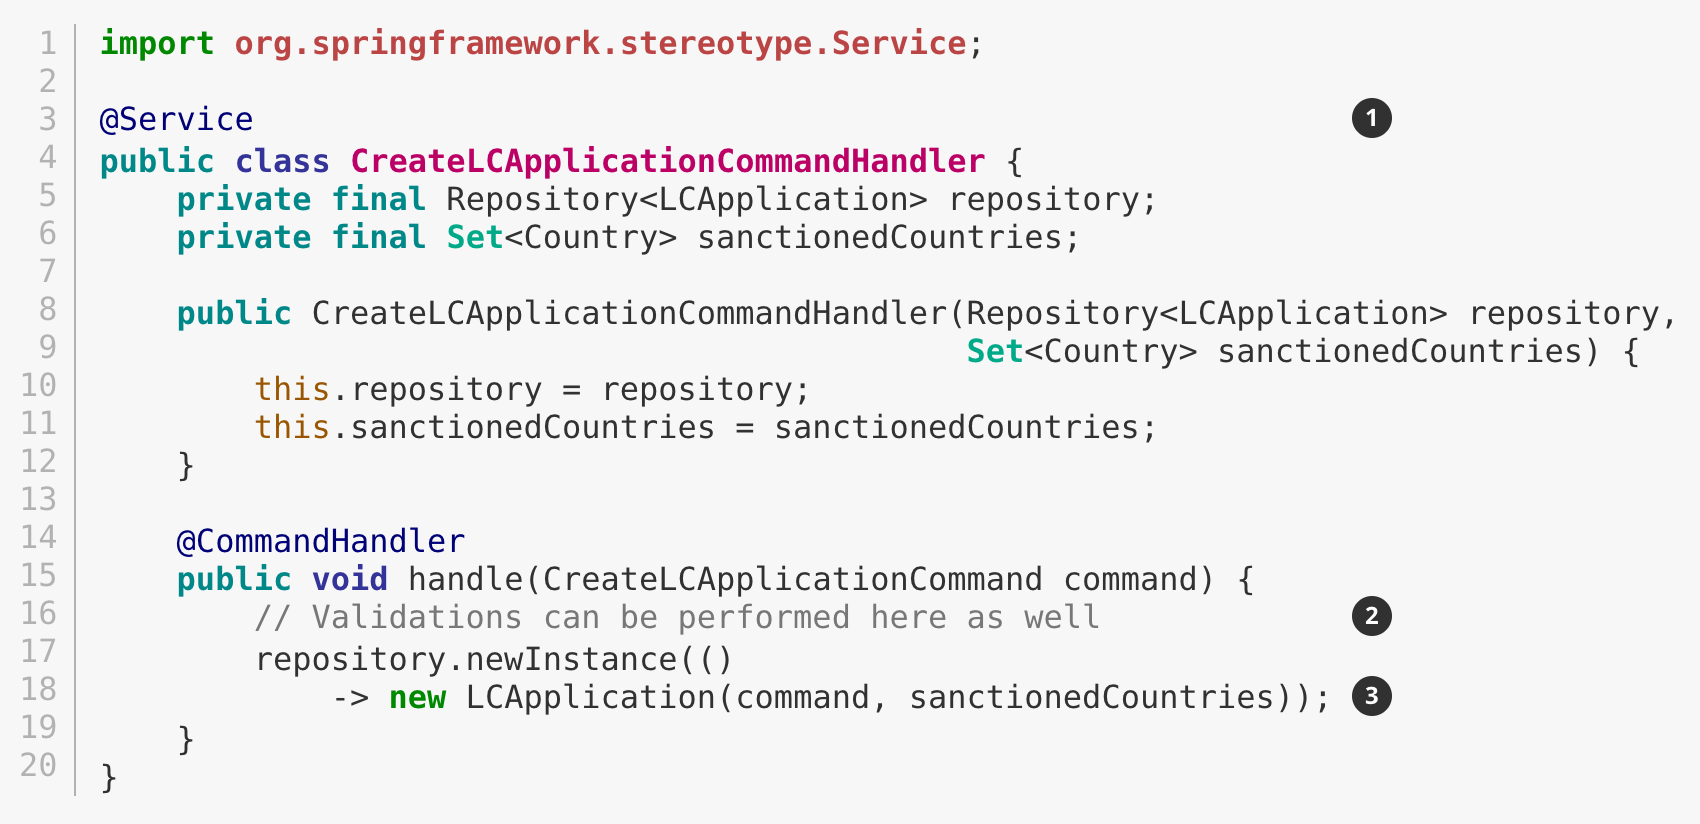
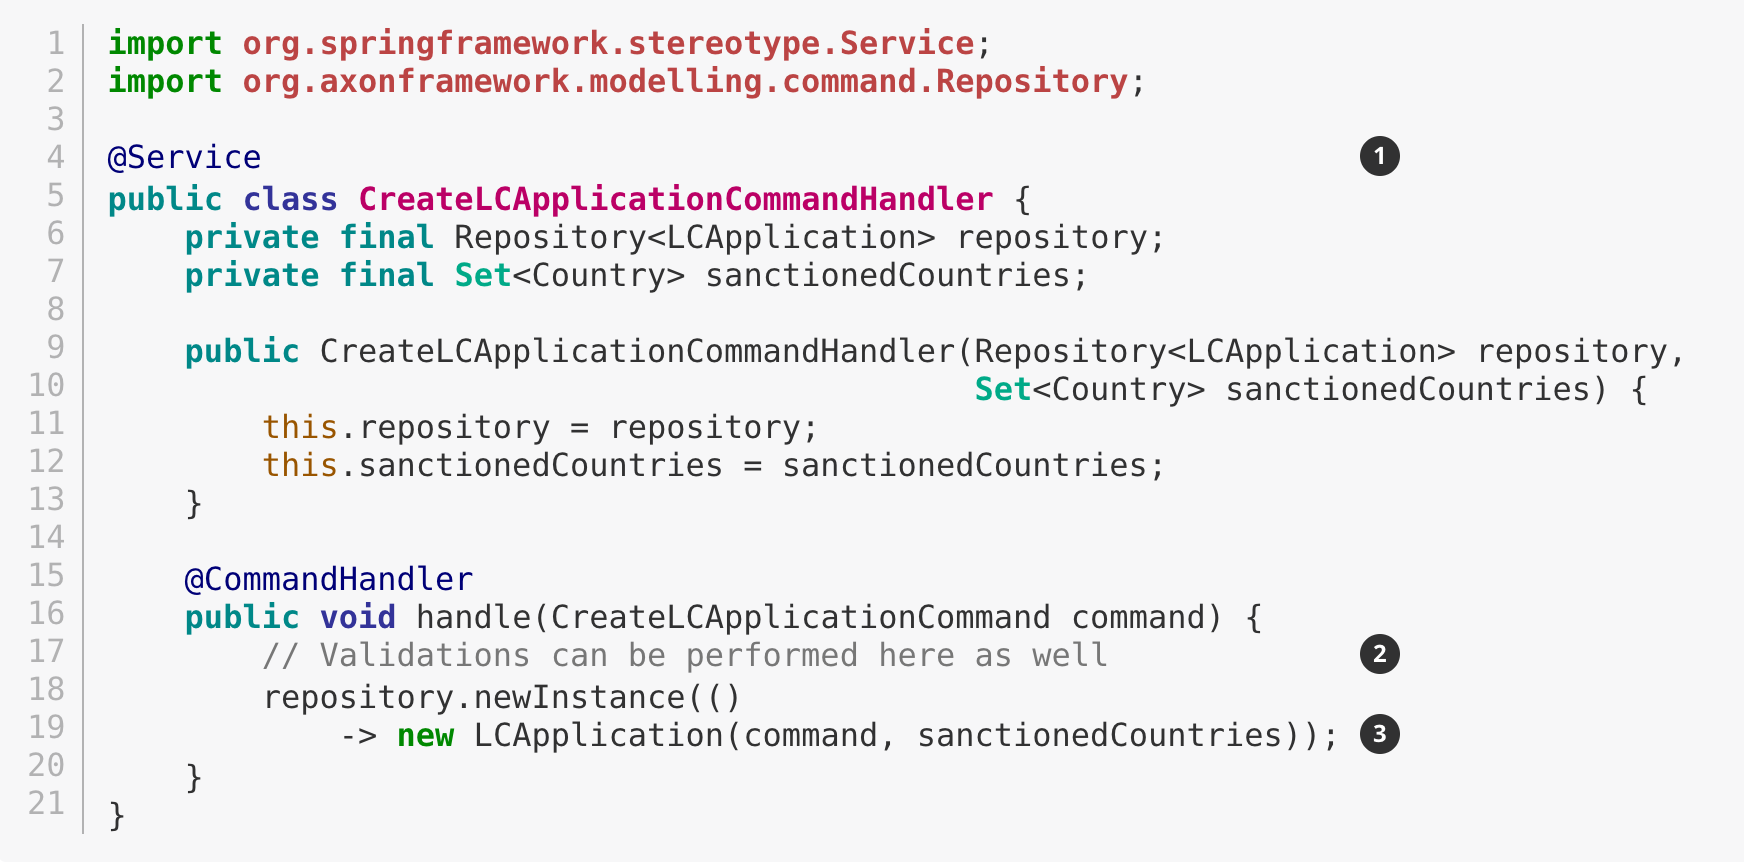
Update from https://github.com/ddd-book-java/ddd-book-java/commit/d29ecd4024bf64122056c32dbb69d119a659c271

diff --git a/index.html b/index.html
@@ -448,7 +448,7 @@ body.book #toc,body.book #preamble,body.book h1.sect0,body.book .sect1>h2{page-b
 <span id="author2" class="author">Karthik Krishnan</span><br>
 <span id="email2" class="email"><a href="mailto:me@karthiks.in">me@karthiks.in</a></span><br>
 <span id="revnumber">version 1.0.0-SNAPSHOT,</span>
-<span id="revdate">Jul 15 2022 02:18 PM UTC</span>
+<span id="revdate">Jul 15 2022 08:53 PM UTC</span>
 </div>
 <div id="toc" class="toc2">
 <div id="toctitle">Table of Contents</div>
@@ -2811,7 +2811,7 @@ It is pertinent to note that these tools were conceived independently, but when 
 <p><strong><em>Key Metrics</em></strong> instead of <em>Key Resources</em>: because it is very important to know that we are progressing in the right direction. It is advisable to focus on a small number of <strong>key metrics</strong> to enable pivoting quickly if needed. <em>Key Resources</em> is removed because developing new products has become relatively easy (with the advent of the cloud and the availability of mature frameworks). Furthermore, they may appear in the <em>Unfair Advantage</em> box, which we discuss next.</p>
 </li>
 <li>
-<p><strong><em>Unfair Advantage</em></strong> instead of <em>customer r   elationships</em>: because it clearly establishes our differentiators that are hard to replicate. This is closely aligned to the idea of the <a href="#_types_of_subdomains">core subdomain</a> we discussed in chapter 1 and gives us a clear picture of what we need to focus our energies on at the outset.</p>
+<p><strong><em>Unfair Advantage</em></strong> instead of <em>customer relationships</em>: because it clearly establishes our differentiators that are hard to replicate. This is closely aligned to the idea of the <a href="#_types_of_subdomains">core subdomain</a> we discussed in chapter 1 and gives us a clear picture of what we need to focus our energies on at the outset.</p>
 </li>
 </ol>
 </div>
@@ -5197,8 +5197,10 @@ Wheat bread</p></td>
 18
 19
 20
+21
 </pre></td>
   <td class="code"><pre><span style="color:#080;font-weight:bold">import</span> <span style="color:#B44;font-weight:bold">org.springframework.stereotype.Service</span>;
+<span style="color:#080;font-weight:bold">import</span> <span style="color:#B44;font-weight:bold">org.axonframework.modelling.command.Repository</span>;
 
 <span style="color:#007">@Service</span>                                                         <i class="conum" data-value="1"></i><b>(1)</b>
 <span style="color:#088;font-weight:bold">public</span> <span style="color:#339;font-weight:bold">class</span> <span style="color:#B06;font-weight:bold">CreateLCApplicationCommandHandler</span> {
@@ -5230,6 +5232,10 @@ Wheat bread</p></td>
 <tr>
 <td><i class="conum" data-value="2"></i><b>2</b></td>
 <td>Do note that the validation for the beneficiary&#8217;s country being sanctioned could have been performed on line 18 as well. Some would argue that this would be ideal because we could avoid a potentially unnecessary invocation of the Axon <code>Repository</code> method if we did that. However, we prefer encapsulating business validations within the confines of the aggregate as much as possible&#8201;&#8212;&#8201;so that we don&#8217;t suffer from the problem of creating an <a href="https://www.martinfowler.com/bliki/AnemicDomainModel.html">anemic domain model</a><sup class="footnote">[<a id="_footnoteref_22" class="footnote" href="#_footnotedef_22" title="View footnote.">22</a>]</sup>.</td>
+</tr>
+<tr>
+<td><i class="conum" data-value="3"></i><b>3</b></td>
+<td>We use an aggregate repository to act as a factory to create a new instance of the <code>LCApplication</code> domain object.</td>
 </tr>
 </table>
 </div>
@@ -12113,7 +12119,7 @@ For more information on logging best practices, please refer to this logging che
 <div id="footer">
 <div id="footer-text">
 Version 1.0.0-SNAPSHOT<br>
-Last updated 2022-07-15 14:18:10 UTC
+Last updated 2022-07-15 20:53:31 UTC
 </div>
 </div>
 </body>

diff --git a/05-implementing-domain-logic.html b/05-implementing-domain-logic.html
@@ -2126,8 +2126,10 @@ Wheat bread</p></td>
 18
 19
 20
+21
 </pre></td>
   <td class="code"><pre><span style="color:#080;font-weight:bold">import</span> <span style="color:#B44;font-weight:bold">org.springframework.stereotype.Service</span>;
+<span style="color:#080;font-weight:bold">import</span> <span style="color:#B44;font-weight:bold">org.axonframework.modelling.command.Repository</span>;
 
 <span style="color:#007">@Service</span>                                                         <i class="conum" data-value="1"></i><b>(1)</b>
 <span style="color:#088;font-weight:bold">public</span> <span style="color:#339;font-weight:bold">class</span> <span style="color:#B06;font-weight:bold">CreateLCApplicationCommandHandler</span> {
@@ -2159,6 +2161,10 @@ Wheat bread</p></td>
 <tr>
 <td><i class="conum" data-value="2"></i><b>2</b></td>
 <td>Do note that the validation for the beneficiary&#8217;s country being sanctioned could have been performed on line 18 as well. Some would argue that this would be ideal because we could avoid a potentially unnecessary invocation of the Axon <code>Repository</code> method if we did that. However, we prefer encapsulating business validations within the confines of the aggregate as much as possible&#8201;&#8212;&#8201;so that we don&#8217;t suffer from the problem of creating an <a href="https://www.martinfowler.com/bliki/AnemicDomainModel.html">anemic domain model</a><sup class="footnote">[<a id="_footnoteref_7" class="footnote" href="#_footnotedef_7" title="View footnote.">7</a>]</sup>.</td>
+</tr>
+<tr>
+<td><i class="conum" data-value="3"></i><b>3</b></td>
+<td>We use an aggregate repository to act as a factory to create a new instance of the <code>LCApplication</code> domain object.</td>
 </tr>
 </table>
 </div>
@@ -2291,7 +2297,7 @@ Wheat bread</p></td>
 <div id="footer">
 <div id="footer-text">
 Version 1.0.0-SNAPSHOT<br>
-Last updated 2022-07-15 14:18:09 UTC
+Last updated 2022-07-15 20:53:31 UTC
 </div>
 </div>
 </body>

diff --git a/03-starting-strategic-design.html b/03-starting-strategic-design.html
@@ -609,7 +609,7 @@ It is pertinent to note that these tools were conceived independently, but when 
 <p><strong><em>Key Metrics</em></strong> instead of <em>Key Resources</em>: because it is very important to know that we are progressing in the right direction. It is advisable to focus on a small number of <strong>key metrics</strong> to enable pivoting quickly if needed. <em>Key Resources</em> is removed because developing new products has become relatively easy (with the advent of the cloud and the availability of mature frameworks). Furthermore, they may appear in the <em>Unfair Advantage</em> box, which we discuss next.</p>
 </li>
 <li>
-<p><strong><em>Unfair Advantage</em></strong> instead of <em>customer r   elationships</em>: because it clearly establishes our differentiators that are hard to replicate. This is closely aligned to the idea of the <a href="#_types_of_subdomains">core subdomain</a> we discussed in chapter 1 and gives us a clear picture of what we need to focus our energies on at the outset.</p>
+<p><strong><em>Unfair Advantage</em></strong> instead of <em>customer relationships</em>: because it clearly establishes our differentiators that are hard to replicate. This is closely aligned to the idea of the <a href="#_types_of_subdomains">core subdomain</a> we discussed in chapter 1 and gives us a clear picture of what we need to focus our energies on at the outset.</p>
 </li>
 </ol>
 </div>
@@ -783,7 +783,7 @@ On this canvas, we have chosen to elaborate the needs of only one class of users
 <div id="footer">
 <div id="footer-text">
 Version 1.0.0-SNAPSHOT<br>
-Last updated 2022-07-15 14:18:09 UTC
+Last updated 2022-07-15 20:53:31 UTC
 </div>
 </div>
 </body>

diff --git a/02-does-ddd-fit.html b/02-does-ddd-fit.html
@@ -1192,7 +1192,7 @@ A BIG BALL OF MUD is haphazardly structured, sprawling, sloppy, duct-tape and ba
 <div id="footer">
 <div id="footer-text">
 Version 1.0.0-SNAPSHOT<br>
-Last updated 2022-07-15 14:18:09 UTC
+Last updated 2022-07-15 20:53:31 UTC
 </div>
 </div>
 </body>

diff --git a/04-domain-analysis-modeling.html b/04-domain-analysis-modeling.html
@@ -1055,7 +1055,7 @@ Eventstorming, on the other hand, uses a chronological ordering of domain events
 <div id="footer">
 <div id="footer-text">
 Version 1.0.0-SNAPSHOT<br>
-Last updated 2022-07-15 14:18:09 UTC
+Last updated 2022-07-15 20:53:31 UTC
 </div>
 </div>
 </body>

diff --git a/06-implementing-a-task-based-ui.html b/06-implementing-a-task-based-ui.html
@@ -2416,7 +2416,7 @@ This may feel contrary to the notion of centralizing business validations on the
 <div id="footer">
 <div id="footer-text">
 Version 1.0.0-SNAPSHOT<br>
-Last updated 2022-07-15 14:18:09 UTC
+Last updated 2022-07-15 20:53:31 UTC
 </div>
 </div>
 </body>

diff --git a/07-implementing-queries.html b/07-implementing-queries.html
@@ -1256,7 +1256,7 @@ Do note that the <strong>distinct datastores</strong> approach for replays is us
 <div id="footer">
 <div id="footer-text">
 Version 1.0.0-SNAPSHOT<br>
-Last updated 2022-07-15 14:18:09 UTC
+Last updated 2022-07-15 20:53:31 UTC
 </div>
 </div>
 </body>

diff --git a/08-long-running-workflows.html b/08-long-running-workflows.html
@@ -1684,7 +1684,7 @@ We will skip covering code examples for the choreography implementation because 
 <div id="footer">
 <div id="footer-text">
 Version 1.0.0-SNAPSHOT<br>
-Last updated 2022-07-15 14:18:09 UTC
+Last updated 2022-07-15 20:53:31 UTC
 </div>
 </div>
 </body>

diff --git a/09-integrating-with-external-systems.html b/09-integrating-with-external-systems.html
@@ -1252,7 +1252,7 @@ The operative word here is <strong>lightweight</strong>. It is pertinent to note
 <div id="footer">
 <div id="footer-text">
 Version 1.0.0-SNAPSHOT<br>
-Last updated 2022-07-15 14:18:09 UTC
+Last updated 2022-07-15 20:53:31 UTC
 </div>
 </div>
 </body>

diff --git a/10-distributing-into-multiple-components.html b/10-distributing-into-multiple-components.html
@@ -1210,7 +1210,7 @@ The spring framework provides support for this style of behavior through the <co
 <div id="footer">
 <div id="footer-text">
 Version 1.0.0-SNAPSHOT<br>
-Last updated 2022-07-15 14:18:09 UTC
+Last updated 2022-07-15 20:53:31 UTC
 </div>
 </div>
 </body>

diff --git a/12-non-functional-requirements.html b/12-non-functional-requirements.html
@@ -1377,7 +1377,7 @@ For more information on logging best practices, please refer to this logging che
 <div id="footer">
 <div id="footer-text">
 Version 1.0.0-SNAPSHOT<br>
-Last updated 2022-07-15 14:18:09 UTC
+Last updated 2022-07-15 20:53:31 UTC
 </div>
 </div>
 </body>

diff --git a/00-preface.html b/00-preface.html
@@ -545,7 +545,7 @@ body.book #toc,body.book #preamble,body.book h1.sect0,body.book .sect1>h2{page-b
 <div id="footer">
 <div id="footer-text">
 Version 1.0.0-SNAPSHOT<br>
-Last updated 2022-07-15 14:18:09 UTC
+Last updated 2022-07-15 20:53:31 UTC
 </div>
 </div>
 </body>
